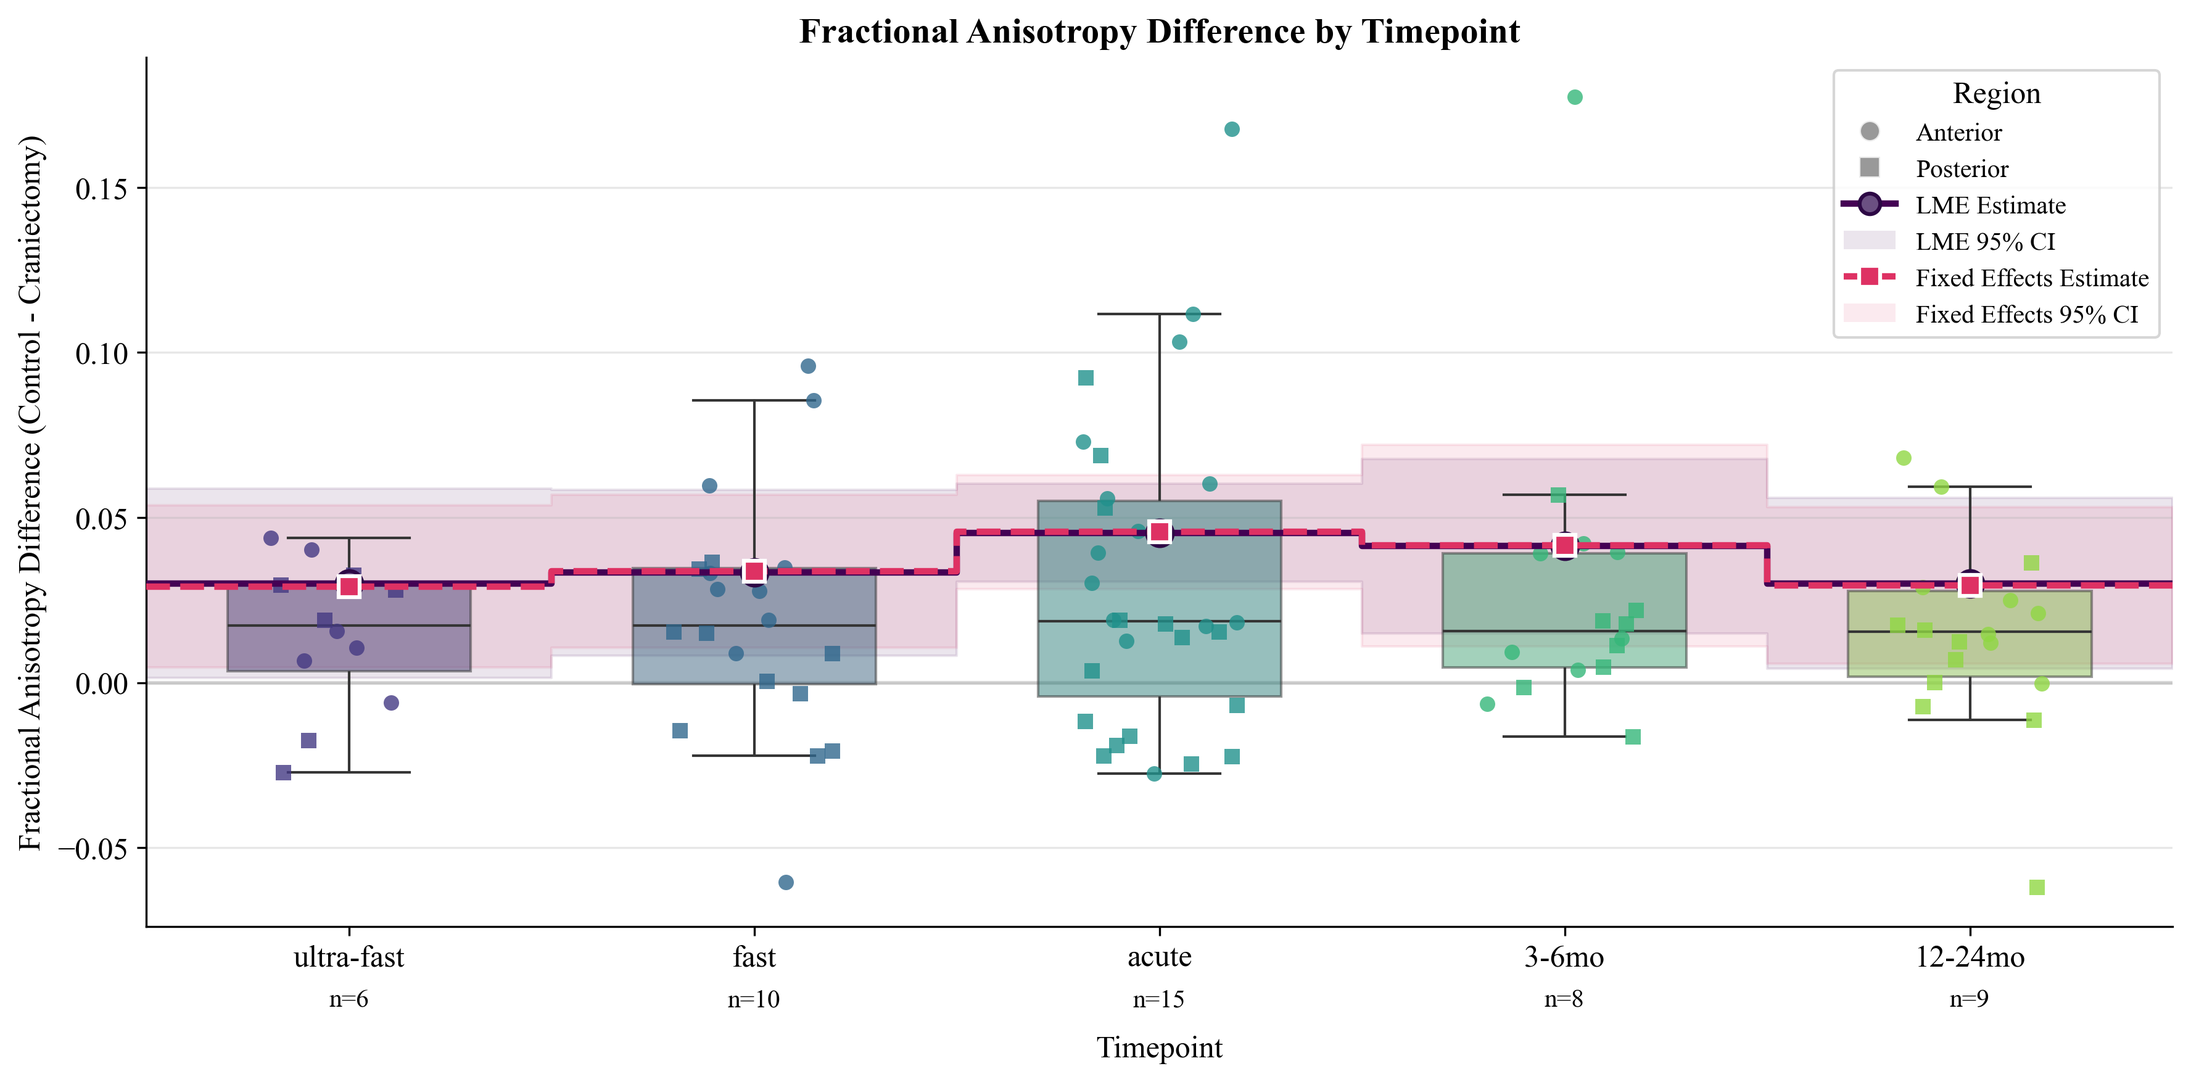
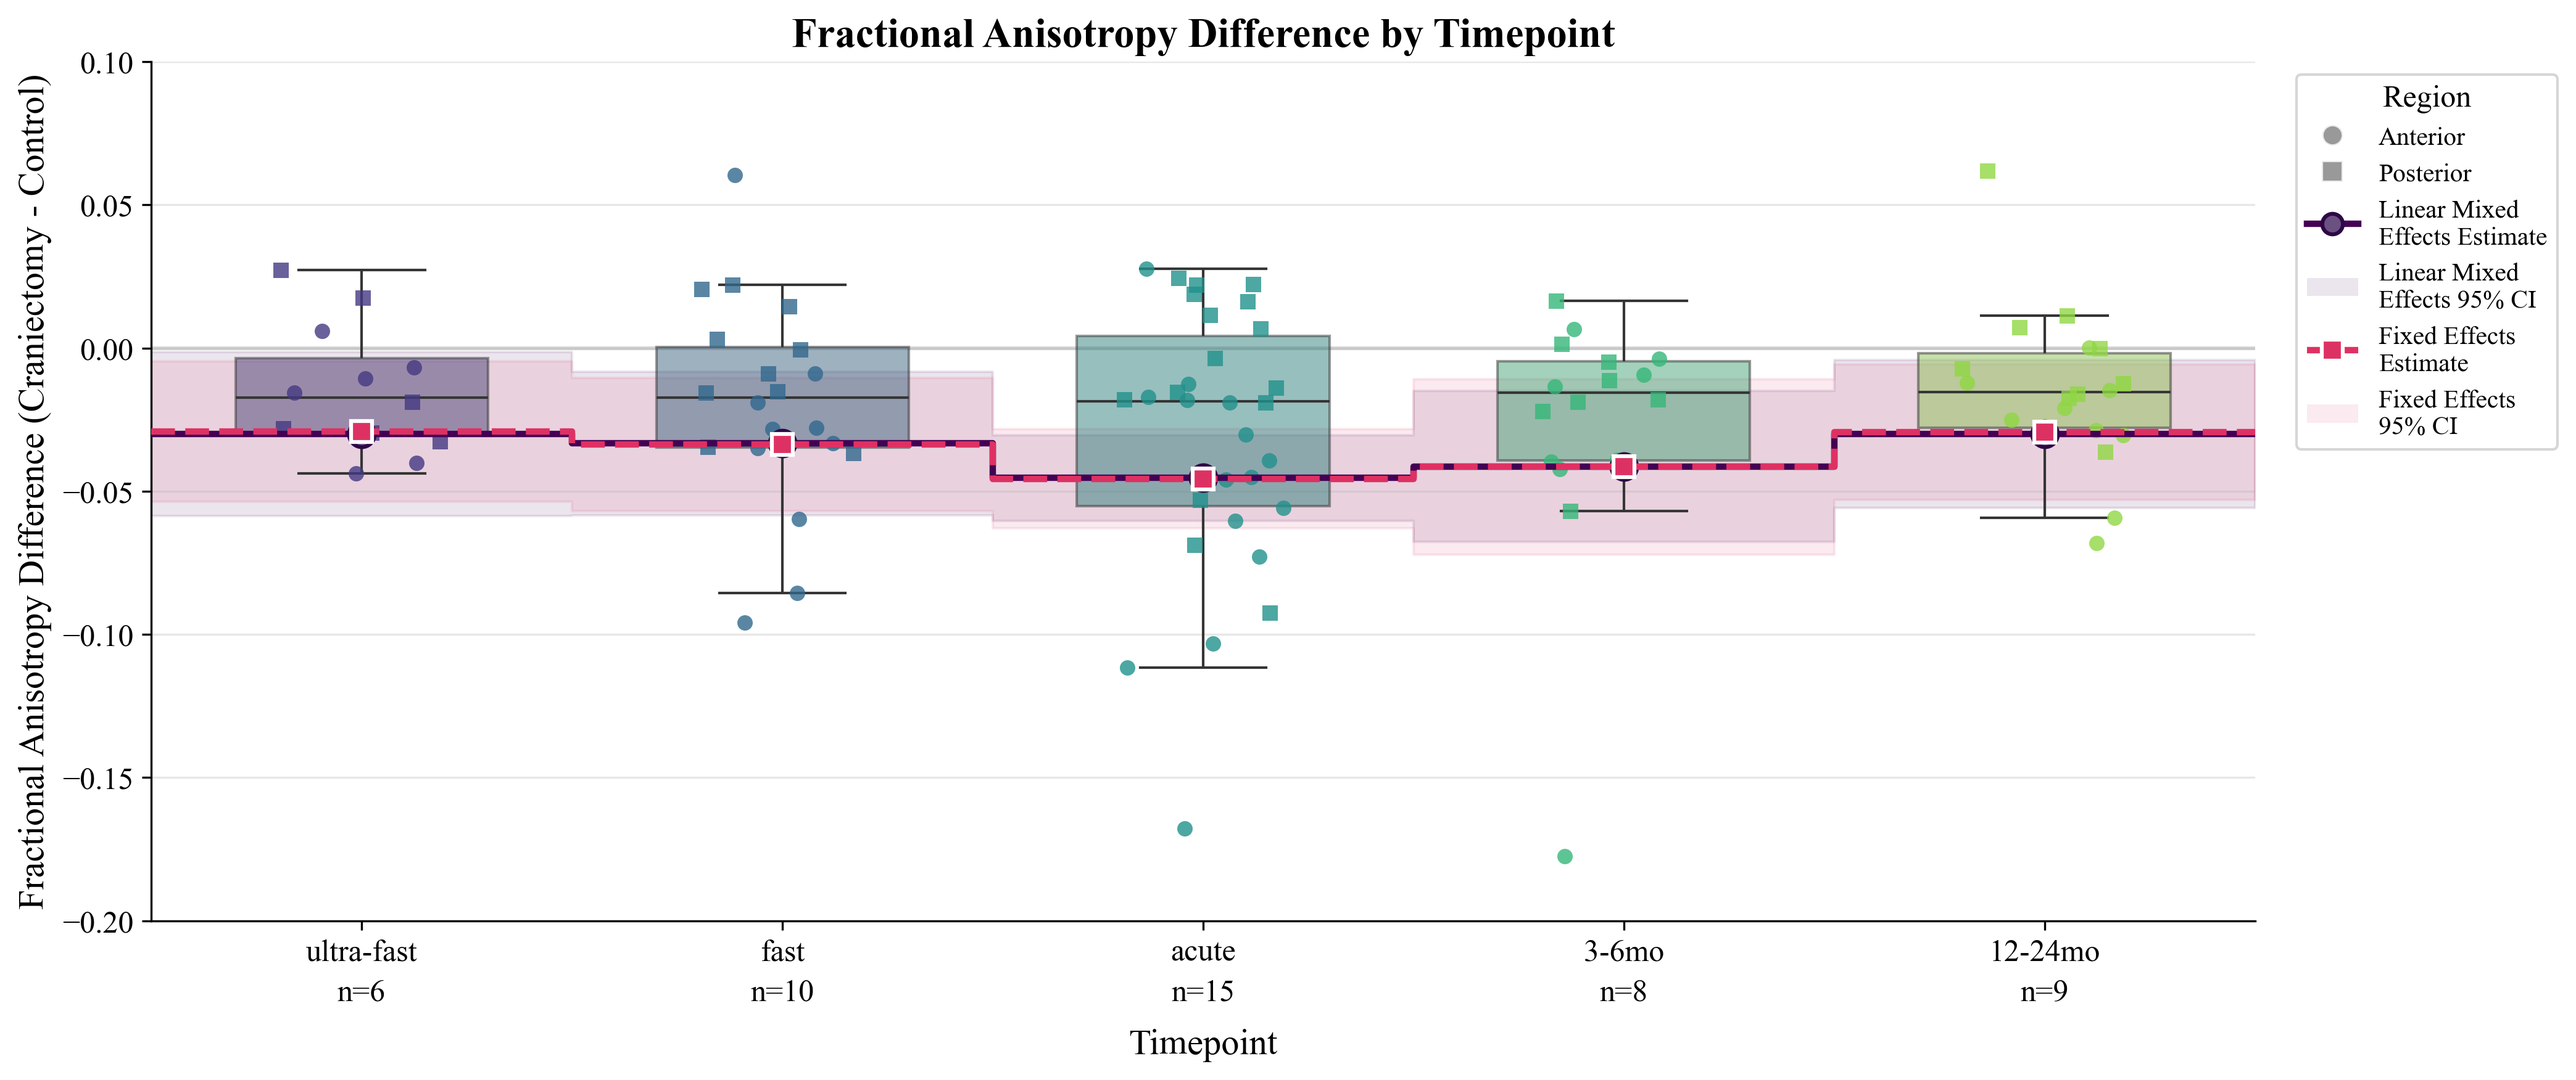
update box plots LME vs fixed

diff --git a/DTI_Processing_Scripts/dti_results_plotting_main.py b/DTI_Processing_Scripts/dti_results_plotting_main.py
@@ -438,7 +438,7 @@ def create_timepoint_boxplot_LME_dti(df, parameter, result, timepoints=['ultra-f
 
     set_publication_style()  # Assuming this function exists in your environment
 
-    fig, ax = plt.subplots(figsize=(12, 6))
+    fig, ax = plt.subplots(figsize=(14, 6))
 
     palette = sns.color_palette("viridis", len(timepoints))
 
@@ -695,15 +695,15 @@ def create_timepoint_boxplot_LME_dti(df, parameter, result, timepoints=['ultra-f
     if fixed_only is False:
         # ADD LME TO LEGEND
         legend_elements += [
-            Line2D([0], [0], color='#440154', linewidth=2.5, marker='o', markerfacecolor='#6B5082', markeredgecolor='#2D0845', markersize=8, markeredgewidth=1.5, label='LME Estimate'),
-            plt.Rectangle((0,0),1,1, facecolor='#440154', alpha=0.1, label='LME 95% CI')
+            Line2D([0], [0], color='#440154', linewidth=2.5, marker='o', markerfacecolor='#6B5082', markeredgecolor='#2D0845', markersize=8, markeredgewidth=1.5, label='Linear Mixed\nEffects Estimate'),
+            plt.Rectangle((0,0),1,1, facecolor='#440154', alpha=0.1, label='Linear Mixed\nEffects 95% CI')
         ]
     
     # ADD FIXED EFFECTS TO LEGEND IF PROVIDED
     if fixed_effects_result is not None:
         legend_elements += [
-            Line2D([0], [0], color='#DE3163', linewidth=2.5, linestyle='--', marker='s', markerfacecolor='#DE3163', markeredgecolor='white', markersize=8, markeredgewidth=1.5, label='Fixed Effects Estimate'),
-            plt.Rectangle((0,0),1,1, facecolor='#DE3163', alpha=0.1, label='Fixed Effects 95% CI')
+            Line2D([0], [0], color='#DE3163', linewidth=2.5, linestyle='--', marker='s', markerfacecolor='#DE3163', markeredgecolor='white', markersize=8, markeredgewidth=1.5, label='Fixed Effects \nEstimate'),
+            plt.Rectangle((0,0),1,1, facecolor='#DE3163', alpha=0.1, label='Fixed Effects\n95% CI')
         ]
 
     # Reduce opacity of box elements
@@ -719,17 +719,19 @@ def create_timepoint_boxplot_LME_dti(df, parameter, result, timepoints=['ultra-f
         unit = " [mm²/s]"
     
     # Set labels and title
-    ax.set_xlabel('Timepoint', fontsize=12)
+    ax.set_xlabel('Timepoint')#, fontsize=12)
     if parameter.lower() == 'md':
-        ax.set_ylim(-0.3,0.15)
-    ax.set_ylabel(f'{param_name} Difference (Craniectomy - Control){unit}', fontsize=12)
-    ax.set_title(f'{param_name} Difference by Timepoint', fontsize=14, fontweight='bold')
+        ax.set_ylim(-0.15,0.3)
+    elif parameter.lower() == 'fa':
+        ax.set_ylim(-0.2, 0.1)
+    ax.set_ylabel(f'{param_name} Difference (Craniectomy - Control){unit}')#, fontsize=12)
+    ax.set_title(f'{param_name} Difference by Timepoint', fontweight='bold') #, fontsize=14
     
     # Add grid for y-axis only
     ax.grid(True, axis='y', linestyle='-', alpha=0.3)
     
     # Move the legend to a better position
-    ax.legend(handles=legend_elements, title='Region', loc='upper right')
+    ax.legend(handles=legend_elements, title='Region', bbox_to_anchor=(1.15, 1),loc='upper right')
     
     # Show count of patients per timepoint
     for i, tp in enumerate(timepoints):
@@ -742,11 +744,11 @@ def create_timepoint_boxplot_LME_dti(df, parameter, result, timepoints=['ultra-f
         # count = melted_data[(melted_data['timepoint'] == tp) & (~melted_data['diff_value'].isna())].shape[0] // 2
         if count > 0:
             if parameter == 'fa':
-                ax.text(i, ax.get_ylim()[0] * 1.35, f"n={count}",
-                    ha='center', va='bottom', fontsize=10)
+                ax.text(i, ax.get_ylim()[0] * 1.15, f"n={count}",
+                    ha='center', va='bottom') #, fontsize=10
             else:
-                ax.text(i, ax.get_ylim()[0] * 1.125, f"n={count}",
-                    ha='center', va='bottom', fontsize=10)
+                ax.text(i, ax.get_ylim()[0] * 1.35, f"n={count}",
+                    ha='center', va='bottom') #, fontsize=10
     
     ax.xaxis.set_label_coords(0.5, -0.125)  # Move x-axis label down
     plt.tight_layout()
@@ -3713,7 +3715,7 @@ if __name__ == '__main__':
     ##############################
     ######## PLOTTING LME
 
-    # create_timepoint_boxplot_LME_dti(df=wm_data_roi_567_combi, parameter='fa', result=result, timepoints=['ultra-fast', 'fast', 'acute', '3-6mo', '12-24mo'])
+    create_timepoint_boxplot_LME_dti(df=wm_data_roi_567_combi, parameter='fa', result=result, timepoints=['ultra-fast', 'fast', 'acute', '3-6mo', '12-24mo'])
     ##################################
 
     ###### WHY DO LME? 
@@ -3824,8 +3826,8 @@ if __name__ == '__main__':
     print_fixed_effects_summary_precise(result_fixed_post, precision=8)
     
 
-    # create_timepoint_boxplot_LME_dti(df=wm_data_roi_567_combi, parameter='fa', result=result, fixed_effects_result=result_fixed)
-    # create_timepoint_boxplot_LME_dti(df=wm_data_roi_567_combi, parameter='fa', result=result, fixed_effects_result=result_fixed, fixed_only=True)
+    create_timepoint_boxplot_LME_dti(df=wm_data_roi_567_combi, parameter='fa', result=result, fixed_effects_result=result_fixed)
+    create_timepoint_boxplot_LME_dti(df=wm_data_roi_567_combi, parameter='fa', result=result, fixed_effects_result=result_fixed, fixed_only=True)
 
     
 
